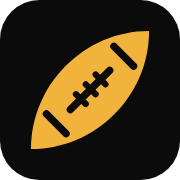
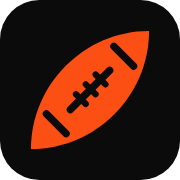
3-sentence edge summary, Bengals orange theme

Changed region(s): [[0.1667, 0.1667, 0.8333, 0.8333]]

diff --git a/site/app.js b/site/app.js
@@ -398,8 +398,8 @@ function dist(c) {
   el("line", { x1: X(c.mu), x2: X(c.mu), y1: Y(0), y2: Y(1.02), stroke: "#F4F4F2", "stroke-width": 3 }, svg);
   txt(svg, X(c.mu), Y(1.02) - 12, "MODEL", { "text-anchor": "middle", "font-size": 18, "font-weight": 900, fill: "#F4F4F2" });
   if (c.market !== null && c.market !== undefined) {
-    el("line", { x1: X(c.market), x2: X(c.market), y1: Y(0), y2: Y(0.86), stroke: "#F2B33D", "stroke-width": 3, "stroke-dasharray": "8 6" }, svg);
-    txt(svg, X(c.market), Y(0.86) - 12, "MARKET", { "text-anchor": "middle", "font-size": 18, "font-weight": 900, fill: "#F2B33D" });
+    el("line", { x1: X(c.market), x2: X(c.market), y1: Y(0), y2: Y(0.86), stroke: "#FB4F14", "stroke-width": 3, "stroke-dasharray": "8 6" }, svg);
+    txt(svg, X(c.market), Y(0.86) - 12, "MARKET", { "text-anchor": "middle", "font-size": 18, "font-weight": 900, fill: "#FB4F14" });
   }
   return svg;
 }
@@ -449,21 +449,21 @@ function calib(c) {
   }
   el("line", { x1: X(0), y1: Y(0), x2: X(1), y2: Y(1), stroke: "#BDBDBD", "stroke-width": 2, "stroke-dasharray": "10 8" }, svg);
   const mx = Math.max(1, ...c.pts.map(p => p.n));
-  for (const p of c.pts) el("circle", { cx: X(p.pred), cy: Y(p.obs), r: 7 + 14 * Math.sqrt(p.n / mx), fill: "#F2B33D", opacity: 0.85 }, svg);
+  for (const p of c.pts) el("circle", { cx: X(p.pred), cy: Y(p.obs), r: 7 + 14 * Math.sqrt(p.n / mx), fill: "#FB4F14", opacity: 0.85 }, svg);
   txt(svg, (box.l + box.r) / 2, box.b + 72, "MODEL WIN PROBABILITY", { "text-anchor": "middle", "font-size": 20, "font-weight": 900, fill: C.title });
   const g = el("g", { transform: `translate(40,${(box.t + box.b) / 2}) rotate(-90)` }, svg);
   txt(g, 0, 0, "ACTUAL WIN RATE", { "text-anchor": "middle", "font-size": 20, "font-weight": 900, fill: C.title });
   const sx = 640, sr = W - 30, bs = c.seasons, all = bs.flatMap(s => [s.model_brier, s.mkt_brier]);
   const lo = Math.min(...all) - 0.005, hi = Math.max(...all) + 0.005, BX = lin(lo, hi, sx + 70, sr), rh = Math.min(48, 420 / Math.max(1, bs.length));
   txt(svg, sx, 20, "BRIER BY SEASON", { "font-size": 18, "font-weight": 900, fill: C.title, "letter-spacing": ".06em" });
-  el("circle", { cx: sx + 8, cy: 46, r: 7, fill: "#F2B33D" }, svg); txt(svg, sx + 22, 52, "Model", { "font-size": 17, fill: C.sub });
+  el("circle", { cx: sx + 8, cy: 46, r: 7, fill: "#FB4F14" }, svg); txt(svg, sx + 22, 52, "Model", { "font-size": 17, fill: C.sub });
   el("circle", { cx: sx + 100, cy: 46, r: 7, fill: "none", stroke: "#F4F4F2", "stroke-width": 2.5 }, svg); txt(svg, sx + 114, 52, "Market", { "font-size": 17, fill: C.sub });
   bs.forEach((s, i) => {
     const y = 90 + i * rh;
     txt(svg, sx, y + 6, String(s.season), { "font-size": 18, "font-weight": 800, fill: C.tick });
     el("line", { x1: BX(s.model_brier), x2: BX(s.mkt_brier), y1: y, y2: y, stroke: "#4A4A50", "stroke-width": 3 }, svg);
     el("circle", { cx: BX(s.mkt_brier), cy: y, r: 7, fill: "#0B0B0C", stroke: "#F4F4F2", "stroke-width": 2.5 }, svg);
-    el("circle", { cx: BX(s.model_brier), cy: y, r: 7, fill: "#F2B33D" }, svg);
+    el("circle", { cx: BX(s.model_brier), cy: y, r: 7, fill: "#FB4F14" }, svg);
   });
   txt(svg, (sx + 70 + sr) / 2, 90 + bs.length * rh + 24, "← BETTER (LOWER)", { "text-anchor": "middle", "font-size": 15, "font-weight": 800, fill: "#6E6E75", "letter-spacing": ".08em" });
   return svg;

diff --git a/site/style.css b/site/style.css
@@ -6,7 +6,7 @@
   --ink: #F3F3F1;
   --mute: #9B9BA1;
   --dim: #6E6E75;
-  --brand: #F2B33D;
+  --brand: #FB4F14;
   --sans: "Nunito Sans", "Avenir Next", "Segoe UI", sans-serif;
   --num: "Barlow Condensed", "DIN Condensed", sans-serif;
   color-scheme: dark;
@@ -32,7 +32,7 @@ main { flex: 1; width: 100%; max-width: 1520px; margin: 0 auto; padding: 24px 16
   color: var(--ink); border: 1px solid var(--line); border-radius: 8px; padding: 8px 30px 8px 12px; font: 600 14px var(--sans); min-width: 120px; cursor: pointer; }
 .pickers .wide select { min-width: 260px; }
 .pickers select:focus-visible { outline: 2px solid var(--brand); outline-offset: 1px; }
-.banner { background: repeating-linear-gradient(-45deg, #2A2210, #2A2210 10px, #221B0C 10px, #221B0C 20px);
+.banner { background: repeating-linear-gradient(-45deg, #2A1408, #2A1408 10px, #1F0F06 10px, #1F0F06 20px);
   color: var(--brand); text-align: center; font-weight: 800; letter-spacing: .12em; font-size: 12px; padding: 8px; }
 
 /* board */
@@ -50,7 +50,7 @@ main { flex: 1; width: 100%; max-width: 1520px; margin: 0 auto; padding: 24px 16
 @keyframes fadeup { from { opacity: 0; transform: translateY(8px); } to { opacity: 1; transform: none; } }
 .tile-meta { display: flex; justify-content: space-between; align-items: center; gap: 8px; font-size: 11px; font-weight: 800; letter-spacing: .1em; color: var(--dim); text-transform: uppercase; }
 .chip { border: 1px solid var(--line); border-radius: 99px; padding: 3px 8px; color: var(--mute); white-space: nowrap; }
-.chip.prime { color: var(--brand); border-color: #4A3A14; }
+.chip.prime { color: var(--brand); border-color: #5A2A10; }
 .teams { display: grid; grid-template-columns: 1fr auto 1fr; align-items: center; gap: 8px; }
 .team { display: flex; align-items: center; gap: 10px; min-width: 0; }
 .team > div { min-width: 0; }

diff --git a/site/index.html b/site/index.html
@@ -17,7 +17,7 @@
 <body>
 <header class="bar">
   <a class="brand" href="#/" aria-label="The Drill Down home">
-    <svg class="brand-mark" viewBox="0 0 64 64" aria-hidden="true"><path d="M11 53C11 30 30 11 53 11C53 34 34 53 11 53Z" fill="#F2B33D"/><path d="M16.5 40.5L23.5 47.5M40.5 16.5L47.5 23.5M25 39L39 25" stroke="#0B0B0C" stroke-width="3" stroke-linecap="round"/><path d="M27 33.5L30.5 37M30.5 30L34 33.5M34 26.5L37.5 30" stroke="#0B0B0C" stroke-width="2.6" stroke-linecap="round"/></svg>
+    <svg class="brand-mark" viewBox="0 0 64 64" aria-hidden="true"><path d="M11 53C11 30 30 11 53 11C53 34 34 53 11 53Z" fill="#FB4F14"/><path d="M16.5 40.5L23.5 47.5M40.5 16.5L47.5 23.5M25 39L39 25" stroke="#0B0B0C" stroke-width="3" stroke-linecap="round"/><path d="M27 33.5L30.5 37M30.5 30L34 33.5M34 26.5L37.5 30" stroke="#0B0B0C" stroke-width="2.6" stroke-linecap="round"/></svg>
     <span class="brand-name">THE DRILL<b>DOWN</b></span>
   </a>
   <nav class="pickers">

diff --git a/pipeline/summary.py b/pipeline/summary.py
@@ -12,13 +12,15 @@ from .config import LLM_MODEL
 log = logging.getLogger(__name__)
 
 SYSTEM = (
-    "You write two-sentence NFL matchup previews for a technical analytics audience.\n"
+    "You write three-sentence NFL matchup previews for a technical analytics audience.\n"
     "Sentence 1: say that the team named in `lean` has the edge on paper (or that it is close, if `lean` is "
-    "'close'), and give the 1 or 2 strongest reasons from `keys` or `storylines`, with their numbers.\n"
-    "Sentence 2: give the other team's best counter-edge or the matchup that could flip the game, with a number.\n"
+    "'close'), with its strongest reason from `keys`, then the other team's best counter-edge, with numbers.\n"
+    "Sentence 2: the key players to watch, from `players`, with their numbers.\n"
+    "Sentence 3: the model's main reasons, from `model`: its favorite, win probability and the top factors "
+    "with their point values. If `model` is null, write about the market from `market_win_pct` instead.\n"
     "Rules: use only facts and numbers from the JSON. Do not add statistics, injuries, records, history or "
-    "betting advice. Use hedged wording such as 'on paper' or 'the numbers favor'. Exactly two sentences, "
-    "plain text, no em dashes, under 70 words."
+    "betting advice. Use hedged wording such as 'on paper'. Exactly three sentences, plain text, no em dashes, "
+    "under 100 words."
 )
 _NUM = re.compile(r"[-+]?\d+(?:\.\d+)?")
 
@@ -27,7 +29,7 @@ def _nums(s):
     return {n.lstrip("+-").rstrip("0").rstrip(".") or "0" for n in _NUM.findall(s)}
 
 
-VERSION = "2"  # bump to regenerate cached summaries after a prompt or fallback change
+VERSION = "3"  # bump to regenerate cached summaries after a prompt or fallback change
 
 
 def facts_hash(facts):
@@ -41,19 +43,35 @@ def lean(home, away, model_p, market_p, labels):
     return labels[home] if p > 0.5 else labels[away]
 
 
+def _clause(k):
+    """'Pittsburgh ranks 1st in EPA per designed run (+0.03). ...' -> 'Pittsburgh ranks 1st in EPA per designed run, +0.03'"""
+    first = k["detail"].split(". ")[0].rstrip(".")
+    return first.replace(" (", ", ").rstrip(")")
+
+
 def fallback(facts):
-    """Two sentences from the keys: the lean team's top key, then the other team's best favorable key."""
+    """Three sentences: edge and counter from the keys, players to watch, the model's top factors."""
     keys, labels, lead = facts["keys"], facts["labels"], facts.get("lean_abbr")
-    first = lambda k: k["detail"].split(". ")[0].rstrip(".")
     teams = list(keys)
     t1 = lead or max(teams, key=lambda t: sum(k["favorable"] for k in keys[t]))
-    k1 = next((k for k in keys[t1] if k["favorable"]), keys[t1][0] if keys[t1] else None)
-    s1 = (f"On paper {labels[t1]} has the edge" if lead else "On paper this one is close") + \
-         (f": {first(k1)}." if k1 else ".")
     other = [t for t in teams if t != t1][0]
+    k1 = next((k for k in keys[t1] if k["favorable"]), keys[t1][0] if keys[t1] else None)
     k2 = next((k for k in keys[other] if k["favorable"]), None)
-    s2 = f" {labels[other]}'s best counter is to {k2['phrase'][0].lower() + k2['phrase'][1:]}: {first(k2)}." if k2 else ""
-    return s1 + s2
+    if lead:
+        s = f"On paper {labels[t1]} has the edge" + (f" ({_clause(k1)})" if k1 else "")
+    else:
+        s = "On paper this one is close" + (f": {labels[t1]}'s best edge is to {k1['phrase'][0].lower() + k1['phrase'][1:]} ({_clause(k1)})" if k1 else "")
+    if k2:
+        s += f", while {labels[other]}'s best counter is to {k2['phrase'][0].lower() + k2['phrase'][1:]} ({_clause(k2)})"
+    out = [s + "."]
+    pl = [p["headline"].rstrip(".") for p in facts.get("players", [])[:2]]
+    if pl:
+        out.append("Players to watch: " + "; ".join(pl) + ".")
+    m = facts.get("model")
+    if m and m["top_factors"]:
+        f = [f"{x['label'].lower().replace('qb', 'QB')} ({x['points']:.1f} pts)" for x in m["top_factors"][:2]]
+        out.append(f"The model favors {m['favorite']} at {m['win_pct']}%, mostly on " + " and ".join(f) + ".")
+    return " ".join(out)
 
 
 def summarize(facts):

diff --git a/pipeline/build.py b/pipeline/build.py
@@ -218,7 +218,19 @@ def main():
                  "market_win_pct": {h_: round(100 * mkt_p), a_: round(100 * (1 - mkt_p))} if mkt_p is not None else None,
                  "keys": {t: [{"phrase": k["phrase"], "detail": k["detail"], "favorable": k["favorable"]} for k in keys[t]] for t in keys},
                  "storylines": [{"team": labels.get(c["owner"], c["owner"]), "text": f"{c['t1']} {c['t2']}"}
-                                for c in team_cards[:4] + player_cards[:2]]}
+                                for c in team_cards[:4]],
+                 "players": [{"team": labels.get(c["owner"], c["owner"]), "headline": c["t1"], "detail": c["t2"]}
+                             for c in ([next(c for c in player_cards if c["owner"] == t) for t in (a_, h_)
+                                        if any(c["owner"] == t for c in player_cards)]
+                                       or player_cards[:2])],
+                 "model": None}
+        if mp:
+            fav = h_ if mp["p_home"] >= 0.5 else a_
+            sgn = 1 if fav == h_ else -1
+            tops = sorted([c for c in mp["contribs"] if sgn * c["pts"] > 0.2], key=lambda c: -sgn * c["pts"])[:2]
+            facts["model"] = {"favorite": labels[fav], "win_pct": round(100 * max(mp["p_home"], 1 - mp["p_home"])),
+                              "top_factors": [{"label": c["label"], "points": round(abs(c["pts"]), 1), "toward": labels[fav]}
+                                              for c in tops]}
         fh = summary.facts_hash(facts)
         prev = prev_doc.get(g.game_id, {})
         if prev.get("summary_hash") == fh and prev.get("summary"):
